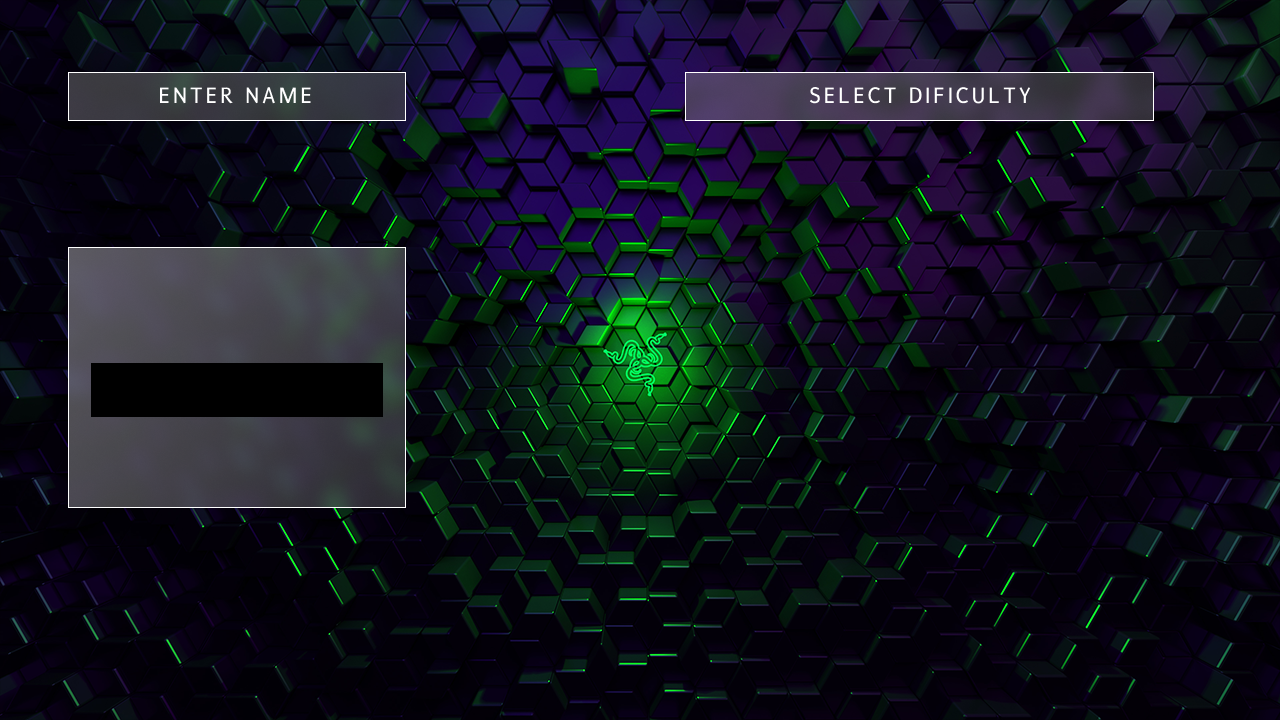
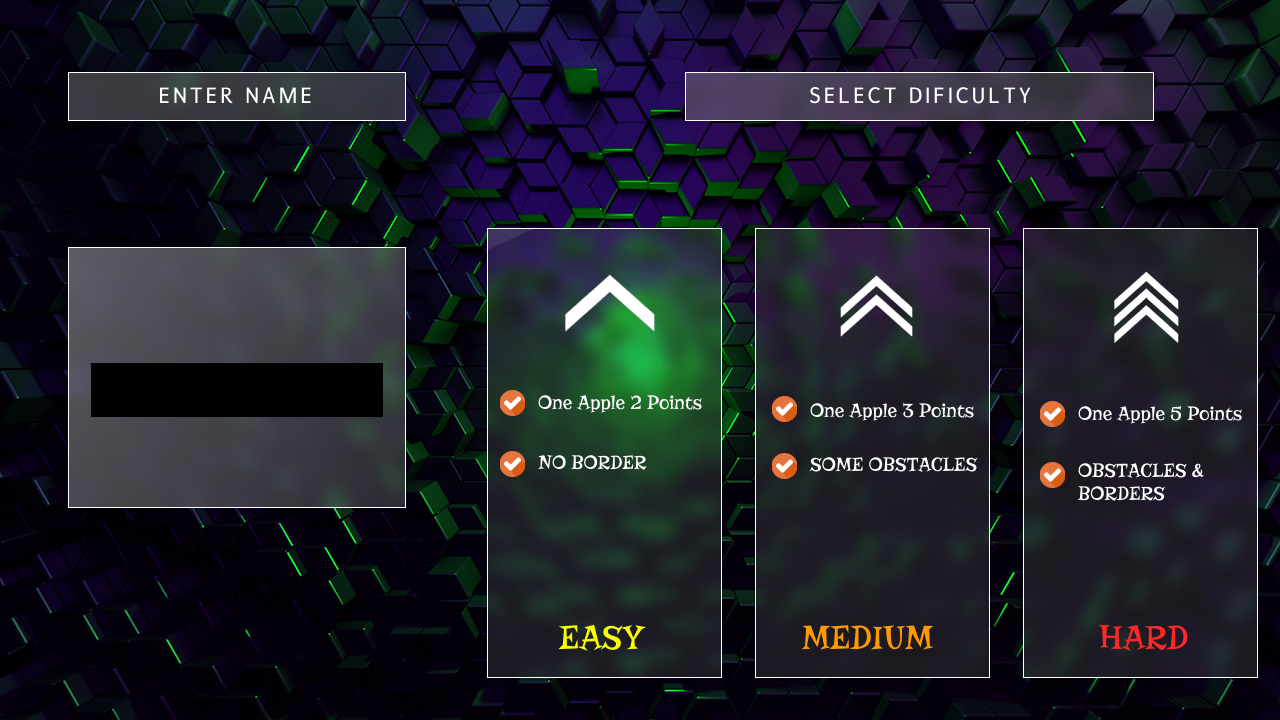
after playmenu added with levels

Changed region(s): [[0.375, 0.3056, 1.0, 0.9472]]

diff --git a/imagedemo.cpp b/imagedemo.cpp
@@ -2,30 +2,28 @@
 
 int ground_width = 800, ground_height = 600, ground_width_start = 240, ground_height_start = 60, ground_width_end = ground_width + ground_width_start, ground_height_end = ground_height + ground_height_start;
 int ground_img, side_logo, sound_on, sound_off, toogle_music = 1, reset_img, toogle_pause = 0, pause_btn, play_btn, back_btn, exit_btn;
-int snake_head_bottom, snake_head_top, snake_head_left, snake_head_right, snake_body_x, snake_body_y, snake_tail, fruit;
+int snake_head_bottom, snake_head_top, snake_head_left, snake_head_right, snake_body_x, snake_body_y, snake_tail, fruit, hit;
 int snake_width = 20, snake_height = 20;
 int x[2000], y[2000], d = 1, length = 50, dir = 1, p_d = 0;
 int snake = 12, game_over = 0;
 int rx = 320, ry = 320;
 char t_score[50], score[5], highScore[5];
 
-int obs_1_x[100], obs_1_y[100], obs_rendered = 0;
+int obs_1_x[100], obs_1_y[100];
 
 int playbutton_hover, learnbutton_hover, scorebutton_hover, creditbutton_hover, exitbutton_hover;
-int playbutton, learnbutton, scorebutton, creditbutton, exitbutton, play_after;
+int playbutton, learnbutton, scorebutton, creditbutton, exitbutton, play_after, play_after_1, play_after_2, play_after_3, play_after_hover[3] = {0, 0, 0}, play_after_musics[3] = {0, 0, 0};
 char homemenu[25] = "images\\gg poster.bmp";
 char Exit[30] = "images\\exit screen01.bmp";
 char CREDIT[30] = "images\\creditbg02.bmp";
 char LEARN[30] = "images\\learnpage02.bmp";
 char SCORE[30] = "images\\highscorebg02.bmp";
-int gState = -1, gLevel = 3;
+int gState = -1, gLevel, check_hit_times;
 int music_fix[] = {0, 0, 0, 0, 0};
 int button_hover[] = {0, 0, 0, 0, 0};
 
-int check_hit_times = (gLevel > 2) ? 40 : 36;
-
 char name[100];
-int score_number = 0;
+int score_number = 0, level_wise_add;
 int file_output_length = 1;
 char players_name[100][999];
 int *score_point;
@@ -41,7 +39,6 @@ char str_input_name[100];
 void iDraw()
 {
 	iClear();
-
 	if (gState == -1)
 	{
 		iShowBMP(0, 0, homemenu);
@@ -78,7 +75,8 @@ void iDraw()
 	}
 	else if (gState == 0)
 	{
-
+		check_hit_times = (gLevel > 2) ? 40 : 36;
+		level_wise_add = (gLevel == 1) ? 2 : (gLevel == 2) ? 3 : 5;
 		if (toogle_music == 1 && toogle_pause == 0)
 		{
 
@@ -349,7 +347,7 @@ void iDraw()
 		{
 
 			length += 5;
-			score_number = score_number + 2;
+			score_number = score_number + level_wise_add;
 			PlaySound(TEXT("music//food.wav"), NULL, SND_ASYNC);
 			rx = (rand() % ((ground_width_end - 30) - ground_width_start)) + ground_width_start;
 			ry = (rand() % ((ground_height_end - 30) - ground_height_start)) + ground_height_start;
@@ -376,7 +374,15 @@ void iDraw()
 			iFilledRectangle(385, 300, 500, 300);
 			iSetColor(255, 255, 255);
 			iText(575, 500, "GAME OVER!", GLUT_BITMAP_TIMES_ROMAN_24);
-			iText(560, 470, "OPPS! You Eat YourSelf.", GLUT_BITMAP_9_BY_15);
+			if (hit == 0)
+			{
+				iText(560, 470, "OPPS! You Eat YourSelf.", GLUT_BITMAP_9_BY_15);
+			}
+			else
+			{
+				iText(560, 470, "OPPS! You Hit Objects.", GLUT_BITMAP_9_BY_15);
+			}
+
 			iText(575, 425, t_score, GLUT_BITMAP_HELVETICA_18);
 			iShowImage(615, 325, 60, 60, reset_img);
 		}
@@ -406,6 +412,19 @@ void iDraw()
 		}
 
 		iShowImage(0, 0, 1280, 720, play_after);
+		if (play_after_hover[0] == 1)
+		{
+			iShowImage(0, 0, 1280, 720, play_after_1);
+		}
+		else if (play_after_hover[1] == 1)
+		{
+			iShowImage(0, 0, 1280, 720, play_after_2);
+		}
+		else if (play_after_hover[2] == 1)
+		{
+			iShowImage(0, 0, 1280, 720, play_after_3);
+		}
+
 		iText(95, 390, "Click to enter name: ", GLUT_BITMAP_9_BY_15);
 		iRectangle(92, 305, 290, 53);
 		iSetColor(0, 255, 0);
@@ -425,20 +444,12 @@ void iDraw()
 		for (int i = 0; i < file_output_length / 2; i++)
 		{
 			char high_score_text[100];
-			sprintf(high_score_text, "%d.  %s  -  %d", i+1, players_name[i], score_point[i]);
+			sprintf(high_score_text, "%d.  %s  -  %d", i + 1, players_name[i], score_point[i]);
 			iSetColor(255, 255, 255);
 			iText(400, y_down, high_score_text, GLUT_BITMAP_TIMES_ROMAN_24);
 			y_down -= 30;
 		}
 	}
-
-	// File Handeling
-	// if (game_over == 1)
-	// {
-	// 	fputs(name, fW);
-	// 	fprintf(fW, "%d\n", score_number);
-	// 	fclose(fW);
-	// }
 }
 
 void game_over_func()
@@ -463,7 +474,7 @@ void get_high_score()
 	for (int i = 0; i < file_output_length; i++)
 	{
 		fscanf(fR, "%s%d", &players_name[i], &score_point[i]);
-		printf("%d\n", score_point[i]);
+		// printf("%d\n", score_point[i]);
 	}
 	high_score = score_point[0];
 	for (int i = 1; i < file_output_length / 2; i++)
@@ -655,6 +666,7 @@ void snake_movement()
 			if (x[0] == x[i] && y[0] == y[i])
 			{
 				game_over_func();
+				hit = 0;
 				break;
 			}
 		}
@@ -664,6 +676,7 @@ void snake_movement()
 			{
 				if (x[0] + snake_width >= obs_1_x[i] && x[0] <= obs_1_x[i] + 30 && y[0] + snake_width >= obs_1_y[i] && y[0] <= obs_1_y[i] + 30)
 				{
+					hit = 1;
 					game_over_func();
 					break;
 				}
@@ -766,6 +779,51 @@ void iPassiveMouse(int mx, int my)
 			button_hover[4] = 0;
 		}
 	}
+	else if (gState == -2)
+	{
+		if (mx >= 485 && mx <= 720 && my >= 40 && my <= 490)
+		{
+			if (play_after_musics[0] == 0)
+			{
+				play_after_hover[0] = 1;
+				PlaySound(TEXT("music\\sd.wav"), NULL, SND_ASYNC);
+				play_after_musics[0] = 1;
+			}
+		}
+		else
+		{
+			play_after_hover[0] = 0;
+			play_after_musics[0] = 0;
+		}
+		if (mx >= 755 && mx <= 990 && my >= 40 && my <= 490)
+		{
+			if (play_after_musics[1] == 0)
+			{
+				play_after_hover[1] = 1;
+				PlaySound(TEXT("music\\sd.wav"), NULL, SND_ASYNC);
+				play_after_musics[1] = 1;
+			}
+		}
+		else
+		{
+			play_after_hover[1] = 0;
+			play_after_musics[1] = 0;
+		}
+		if (mx >= 1025 && mx <= 1258 && my >= 40 && my <= 490)
+		{
+			if (play_after_musics[2] == 0)
+			{
+				play_after_hover[2] = 1;
+				PlaySound(TEXT("music\\sd.wav"), NULL, SND_ASYNC);
+				play_after_musics[2] = 1;
+			}
+		}
+		else
+		{
+			play_after_hover[2] = 0;
+			play_after_musics[2] = 0;
+		}
+	}
 }
 
 /*
@@ -799,6 +857,7 @@ void iMouse(int button, int state, int mx, int my)
 					PlaySound(TEXT("music//gameover.wav"), NULL, SND_ASYNC);
 					toogle_pause = 1;
 					iPauseTimer(0);
+					
 				}
 				else
 				{
@@ -815,6 +874,7 @@ void iMouse(int button, int state, int mx, int my)
 				gState = -1;
 				toogle_pause = 1;
 				iPauseTimer(0);
+				mciSendString(TEXT("pause  mp3"), NULL, 0, NULL);
 			}
 			if (mx >= 615 && mx <= 675 && my >= 325 && my <= 385)
 			{
@@ -872,6 +932,7 @@ void iMouse(int button, int state, int mx, int my)
 		}
 		else if (gState == -2)
 		{
+			// gState = 0;
 			if (mx >= 35 && mx <= 75 && my >= 35 && my <= 75)
 			{
 				gState = -1;
@@ -888,7 +949,6 @@ void iMouse(int button, int state, int mx, int my)
 				}
 				strcpy(name, str_input_name);
 				name_mode = 0;
-				gState = 0;
 			}
 			if (mx >= 190 && mx <= 250 && my >= 225 && my <= 285)
 			{
@@ -898,6 +958,26 @@ void iMouse(int button, int state, int mx, int my)
 					str_input_name[i] = ' ';
 				}
 				len = 0;
+			}
+
+			if (mx >= 485 && mx <= 720 && my >= 40 && my <= 490)
+			{
+
+				gLevel = 1;
+				gState = 0;
+			}
+
+			if (mx >= 755 && mx <= 990 && my >= 40 && my <= 490)
+			{
+
+				gLevel = 2;
+				gState = 0;
+			}
+
+			if (mx >= 1025 && mx <= 1258 && my >= 40 && my <= 490)
+			{
+				gLevel = 3;
+				gState = 0;
 			}
 		}
 		else if (gState == 2)
@@ -1031,6 +1111,9 @@ int main()
 	back_btn = iLoadImage("images\\previous.png");
 	exit_btn = iLoadImage("images\\exit.png");
 	play_after = iLoadImage("images\\afterplay.png");
+	play_after_1 = iLoadImage("images\\box1blur.png");
+	play_after_2 = iLoadImage("images\\box2blur.png");
+	play_after_3 = iLoadImage("images\\box3blur.png");
 	// In Menu
 	playbutton_hover = iLoadImage("images\\Goldenplay.png");
 	scorebutton_hover = iLoadImage("images\\scores_g.png");
